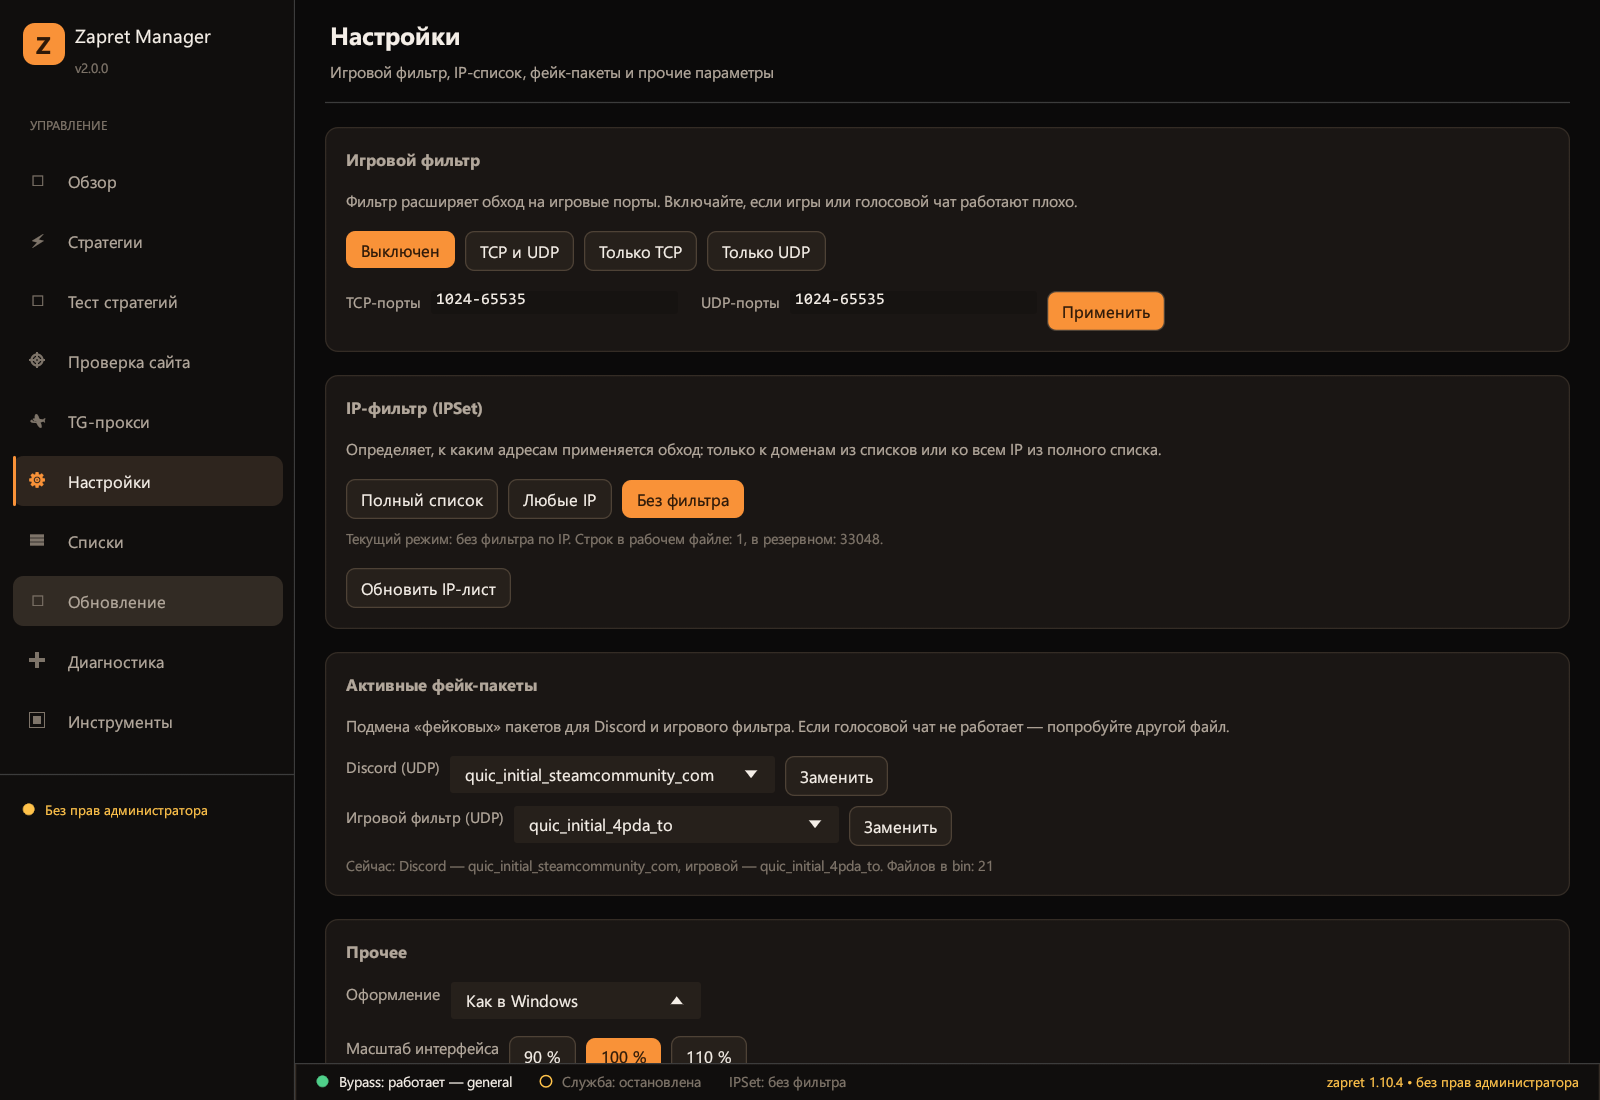
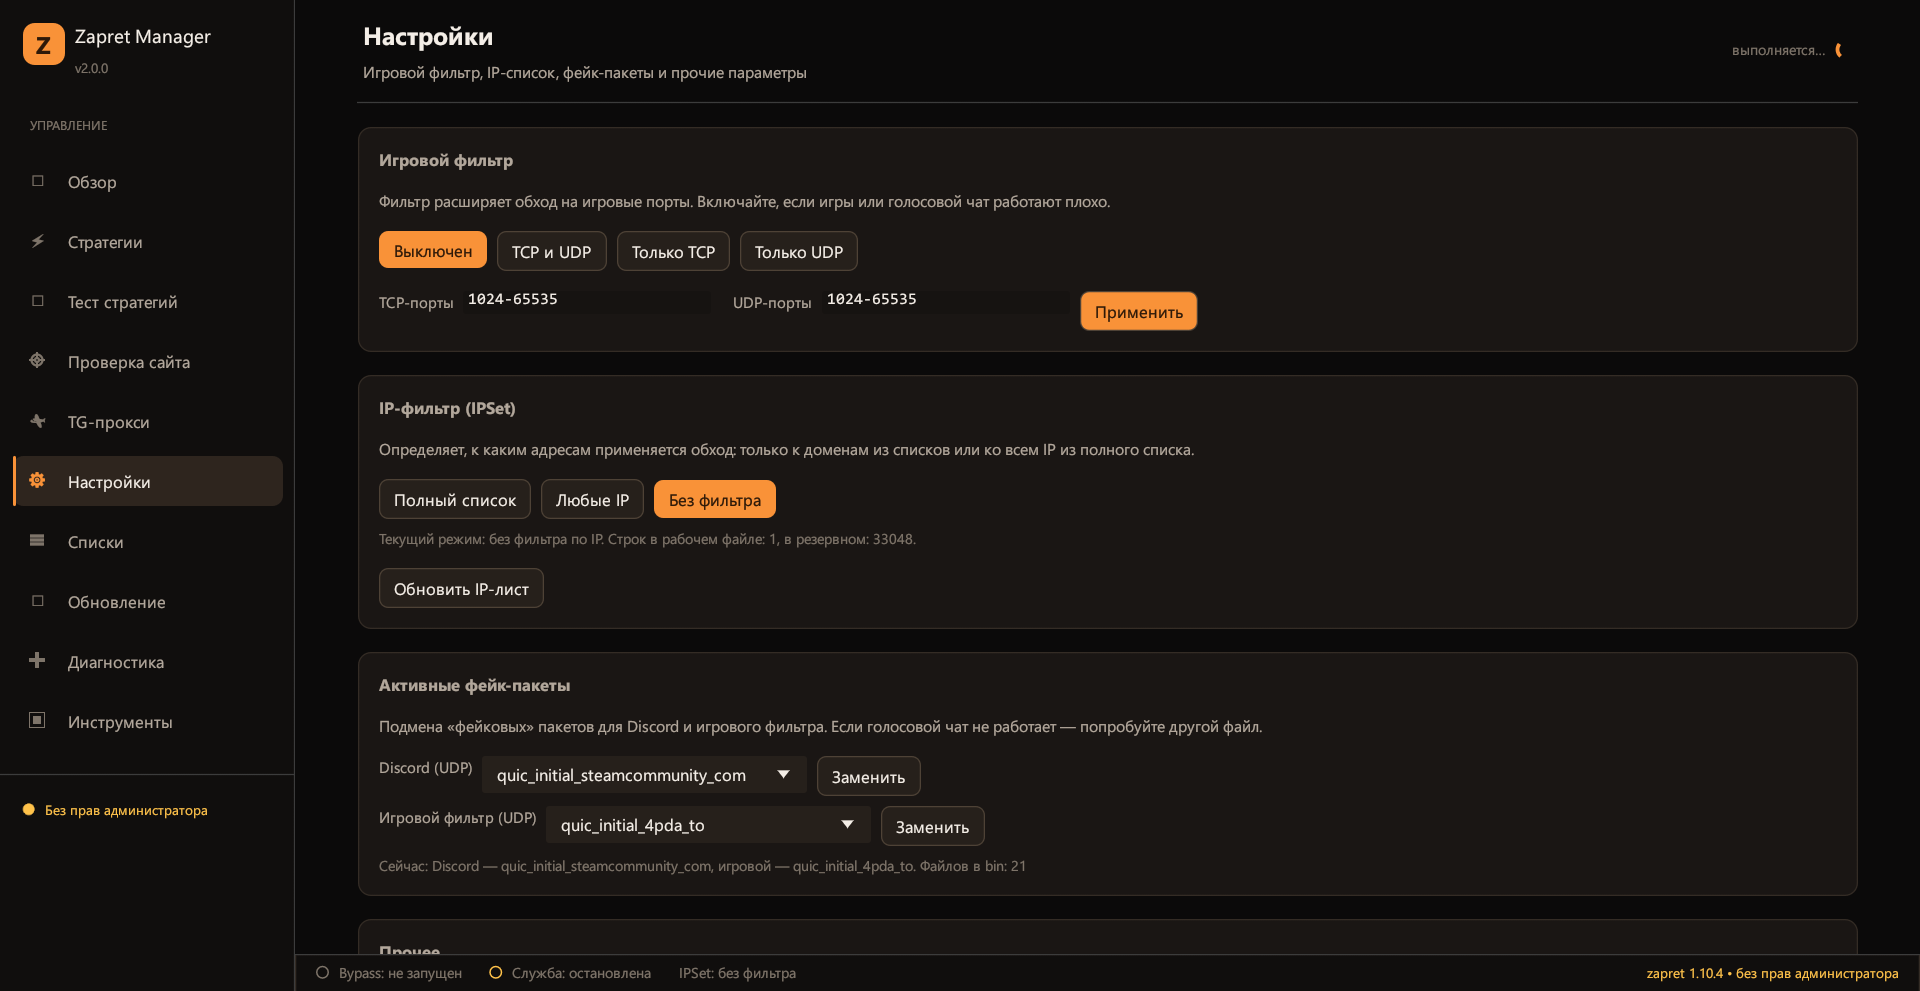
Rust: окно на весь экран, корректный трей и снимки всех страниц

diff --git a/src/ui/app.rs b/src/ui/app.rs
@@ -541,6 +541,8 @@ pub struct App {
     pub progress: HashMap<&'static str, (u32, String)>,
     pub start_hidden: bool,
     hidden_done: bool,
+    window_visible: bool,
+    window_visibility_sent: Option<bool>,
     pub autostart_mode: bool,
     pub bootstrap_done: bool,
     pub update_check_started: bool,
@@ -548,6 +550,7 @@ pub struct App {
     pub scale: f32,
     pub theme_name: String,
     pub clipboard: Option<String>,
+
 }
 
 impl App {
@@ -606,6 +609,8 @@ impl App {
             progress: HashMap::new(),
             start_hidden,
             hidden_done: !start_hidden,
+            window_visible: !start_hidden,
+            window_visibility_sent: if start_hidden { None } else { Some(true) },
             autostart_mode,
             bootstrap_done: false,
             update_check_started: false,
@@ -613,6 +618,7 @@ impl App {
             scale,
             theme_name,
             clipboard: None,
+
         };
         app.log_seq = log::last_seq();
         // начальные значения страниц
@@ -1180,6 +1186,7 @@ impl App {
             match event {
                 TrayEvent::Show => {
                     self.hidden_done = true;
+                    self.window_visible = true;
                 }
                 TrayEvent::ToggleZapret => {
                     if self.state.winws_running {
@@ -1211,6 +1218,7 @@ impl App {
                 TrayEvent::CheckUpdates => {
                     self.page = Page::Update;
                     self.hidden_done = true;
+                    self.window_visible = true;
                     self.check_updates();
                 }
                 TrayEvent::Exit => {
@@ -1599,32 +1607,40 @@ impl App {
 
 impl eframe::App for App {
     fn update(&mut self, ctx: &egui::Context, _frame: &mut eframe::Frame) {
-        // тема и масштаб
+
+        // Пользовательский масштаб интерфейса (90/100/110 %).
+        if (ctx.zoom_factor() - self.scale).abs() > 0.01 {
+            ctx.set_zoom_factor(self.scale);
+        }        // тема и масштаб
         if self.ctx_dark != self.dark {
             theme::apply(ctx, self.dark);
             self.ctx_dark = self.dark;
         }
         self.p = theme::palette(self.dark);
-        if (ctx.zoom_factor() - self.scale).abs() > 0.01 {
-            ctx.set_zoom_factor(self.scale);
-        }
+
 
         // снимок окна
         if let Some(path) = self.shot.clone() {
             self.shot_frames += 1;
-            if self.shot_frames == 90 {
+
+            if self.shot_frames == 12 {
+
                 ctx.send_viewport_cmd(egui::ViewportCommand::Screenshot(Default::default()));
             }
-            if self.shot_frames > 90 {
+            if self.shot_frames > 12 {
                 let mut saved = false;
                 let events = ctx.input(|i| i.events.clone());
                 for event in events {
                     if let egui::Event::Screenshot { image, .. } = event {
+
                         saved = crate::ui::assets::save_png(&path, &image);
                         break;
                     }
                 }
-                if saved || self.shot_frames > 300 {
+                if saved || self.shot_frames > 40 {
+                    if !saved {
+                        log::error("Не удалось сохранить снимок окна");
+                    }
                     ctx.send_viewport_cmd(egui::ViewportCommand::Close);
                     return;
                 }
@@ -1632,10 +1648,17 @@ impl eframe::App for App {
             }
         }
 
-        if self.hidden_done {
-            // окно показывается/скрывается по флагам
-        } else {
-            ctx.send_viewport_cmd(egui::ViewportCommand::Visible(false));
+        // закрытие окна: свернуть в трей вместо выхода
+        if ctx.input(|i| i.viewport().close_requested()) {
+            if self.shot.is_none() && !self.exit_requested && self.ini.get_bool("CloseToTray", true) {
+                ctx.send_viewport_cmd(egui::ViewportCommand::CancelClose);
+                self.window_visible = false;
+            }
+        }
+        // видимость окна (тихий старт, трей, показ из трея)
+        if self.window_visibility_sent != Some(self.window_visible) {
+            ctx.send_viewport_cmd(egui::ViewportCommand::Visible(self.window_visible));
+            self.window_visibility_sent = Some(self.window_visible);
         }
 
         self.poll_tray();
@@ -1673,11 +1696,13 @@ impl eframe::App for App {
 
         self.sidebar(ctx);
         self.status_bar(ctx);
+        let screen_w = ctx.screen_rect().width();
+        let side = ((screen_w - 236.0 - 1200.0) * 0.5).max(24.0).min(400.0) as i8;
         egui::CentralPanel::default()
             .frame(
                 egui::Frame::none()
                     .fill(self.p.bg)
-                    .inner_margin(egui::Margin::symmetric(24, 0)),
+                    .inner_margin(egui::Margin::symmetric(side, 0)),
             )
             .show(ctx, |ui| {
                 self.header(ui);
@@ -1711,6 +1736,9 @@ impl eframe::App for App {
 
         if self.exit_requested {
             ctx.send_viewport_cmd(egui::ViewportCommand::Close);
+        }
+        if self.shot.is_some() {
+            ctx.request_repaint();
         }
         if self.busy > 0 || self.pages.test.running || self.pages.sites.watching {
             ctx.request_repaint_after(Duration::from_millis(300));

diff --git a/src/ui/mod.rs b/src/ui/mod.rs
@@ -23,6 +23,7 @@ pub fn run(
     let icon = assets::window_icon();
     let mut viewport = eframe::egui::ViewportBuilder::default()
         .with_inner_size([1280.0, 880.0])
+        .with_maximized(true)
         .with_min_inner_size([1000.0, 700.0])
         .with_title("Zapret Manager")
         .with_app_id("ZapretManager");
